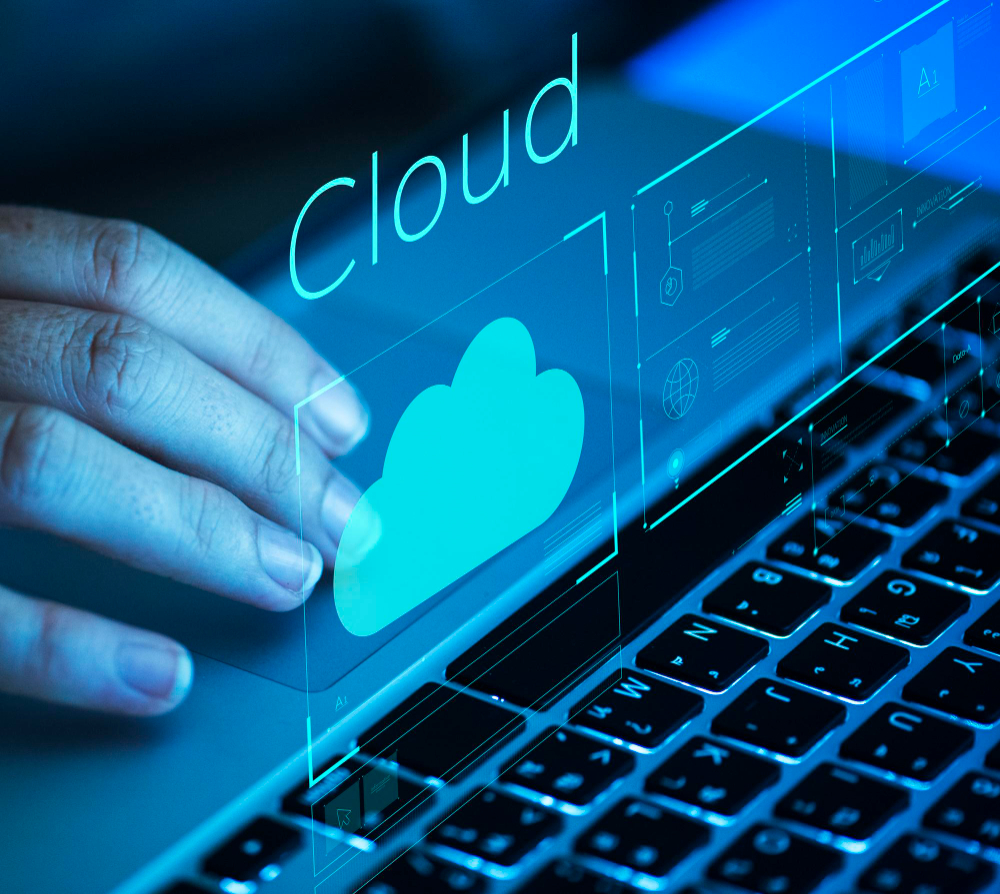
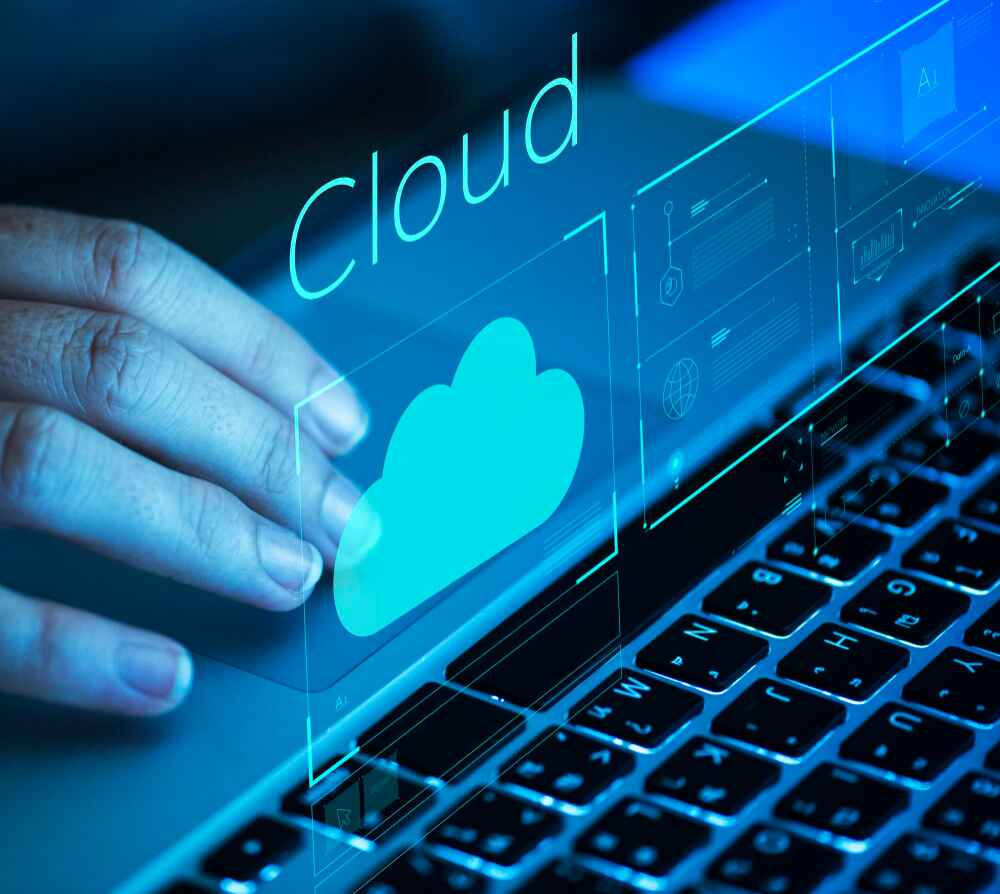
optimize images and add comments

diff --git a/src/components/Header/Header.jsx b/src/components/Header/Header.jsx
@@ -43,11 +43,11 @@ const Header = () => {
 
   return (
     <div className="fixed top-0 left-0 w-full shadow-sm z-50">
-      <nav className="bg-white max-w-[1920px] h-12 sm:h-16 px-4 md:px-6 lg:px-12 xl:px-24 flex justify-between mx-auto items-center">
+      <nav className="bg-white max-w-[1920px] h-16 px-4 md:px-6 lg:px-12 xl:px-24 flex justify-between mx-auto items-center">
         {/* Logo or Brand Name - Visible on all screens */}
         <div className="flex-shrink-0">
           <Link to="/">
-            <img className="h-10 xl:h-12 py-2" src={Logo} alt="Packways_Logo" />
+            <img className="h-12 py-2" src={Logo} alt="Packways_Logo" />
           </Link>
         </div>
 
@@ -108,8 +108,8 @@ const Header = () => {
                 <DialogDescription className="sr-only">
                   Browse menu items
                 </DialogDescription>
-                <Link to="/" className="">
-                  <img className="h-7" src={Logo} alt="Iron Data Logo" />
+                <Link to="/">
+                  <img className="h-6 sm:h-7" src={Logo} alt="Iron Data Logo" />
                 </Link>
               </SheetHeader>
 

diff --git a/src/components/Home/WhyMarkOne.jsx b/src/components/Home/WhyMarkOne.jsx
@@ -1,10 +1,7 @@
 import { whyMarkOne } from "@/constants";
 import {
   Card,
-  CardAction,
-  CardContent,
   CardDescription,
-  CardFooter,
   CardHeader,
   CardTitle,
 } from "@/components/ui/card";
@@ -12,9 +9,7 @@ import {
 const WhyMarkOne = () => {
   return (
     <section className="bg-white max-w-[1920px] flex flex-col relative justify-center mx-auto px-4 md:px-6 lg:px-12 xl:px-24 py-20 border-red-500 overflow-hidden">
-      {/* Background - box effect */}
-      {/* <BgBoxEffect /> */}
-
+      {/* Title */}
       <h2 className="text-2xl lg:text-3xl xl:text-4xl font-bold text-gray-900 leading-snug mb-3">
         Why Mark One
       </h2>
@@ -22,6 +17,7 @@ const WhyMarkOne = () => {
         Four pillars that define how we build and scale with our partners.
       </p>
 
+      {/* Whu mark one cards */}
       <div className="w-full grid gap-7 grid-cols-1 md:grid-cols-4 my-6">
         {whyMarkOne.map(({ id, img, title, desc }) => (
           <div key={title} className="">

diff --git a/src/components/Home/TechnologyServices.jsx b/src/components/Home/TechnologyServices.jsx
@@ -14,10 +14,12 @@ import {
 const TechnologyServices = () => {
   return (
     <section className="bg-white max-w-[1920px] mx-auto px-4 md:px-6 lg:px-12 xl:px-24 py-20">
+      {/* Title */}
       <h2 className="text-2xl lg:text-3xl xl:text-4xl font-bold text-gray-900 leading-snug mb-5">
         Technology Services
       </h2>
       <div className="flex flex-col items-center">
+        {/* Services cards */}
         <div className="w-full grid gap-7 grid-cols-1 md:grid-cols-4 mb-6">
           {techServices.items.map(({ id, title, desc, Icon }) => (
             <Card key={id}>
@@ -29,6 +31,8 @@ const TechnologyServices = () => {
             </Card>
           ))}
         </div>
+
+        {/* CTA Buttons */}
         <Link to={techServices.cta.href}>
           <Button
             type={techServices.cta.type}

diff --git a/src/components/Home/EcosystemPillars.jsx b/src/components/Home/EcosystemPillars.jsx
@@ -3,8 +3,6 @@ import { Button } from "..";
 import { pillars } from "@/constants";
 import {
   Card,
-  CardAction,
-  CardContent,
   CardDescription,
   CardFooter,
   CardHeader,
@@ -14,10 +12,12 @@ import {
 const EcosystemPillars = () => {
   return (
     <section className="bg-white max-w-[1920px] mx-auto px-4 md:px-6 lg:px-12 xl:px-24 py-20">
+      {/* Title */}
       <h2 className="text-2xl lg:text-3xl xl:text-4xl font-bold text-gray-900 leading-snug mb-5">
         Ecosystem Pillars
       </h2>
       <div className="flex flex-col md:flex-row md:justify-between items-center md:gap-10 lg:gap-20 overflow-hidden">
+        {/* Pillars points */}
         <div className="w-full grid gap-7 grid-cols-1 md:grid-cols-3">
           {pillars.map(({ id, title, desc, Icon, cta }) => (
             <Card key={id}>

diff --git a/src/components/Home/DisruptionHighlight.jsx b/src/components/Home/DisruptionHighlight.jsx
@@ -15,6 +15,7 @@ const DisruptionHighlight = () => {
         rightToColor="to-red-500"
       />
 
+      {/* Title */}
       <h2 className="text-2xl lg:text-3xl xl:text-4xl font-bold text-white text-center leading-snug mb-3 z-10">
         {title}
       </h2>
@@ -22,6 +23,7 @@ const DisruptionHighlight = () => {
         {sub}
       </p>
 
+      {/* Bullet points */}
       <div className="max-w-2xl bg-accent text-sm md:text-base xl:text-lg text-gray-900 px-5 sm:px-8 py-3 sm:py-6 rounded-2xl mb-8 space-y-3 z-10">
         {bullets.map((bullet) => (
           <div className="flex gap-3 justify-center font-medium">
@@ -31,6 +33,7 @@ const DisruptionHighlight = () => {
         ))}
       </div>
 
+      {/* CTA button */}
       <div className="z-10">
         <Link to="/contact">
           <Button

diff --git a/src/components/Footer/Footer.jsx b/src/components/Footer/Footer.jsx
@@ -1,6 +1,7 @@
 import { Link } from "react-router-dom";
 import { Button } from "..";
 import { socialMediaLinks } from "@/constants";
+import Logo from "@/assets/logo/Mark_one_logo.png";
 
 const Footer = () => {
   return (
@@ -8,7 +9,7 @@ const Footer = () => {
       <div className="grid sm:grid-cols-3 md:grid-cols-5 lg:grid-cols-5 gap-12">
         {/* Company Info */}
         <div className="sm:col-span-3 md:col-span-2">
-          <h2 className="text-gray-900 text-xl font-bold">Mark One</h2>
+          <img src={Logo} alt="Mark One" className="h-10" />
           <p className="text-gray-700 font-medium mt-4 text-sm leading-relaxed max-w-sm">
             Learn more about how Mark One can help your company streamline
             customer communications, deliver 24×7 support, and optimize

diff --git a/src/components/Home/Hero.jsx b/src/components/Home/Hero.jsx
@@ -7,7 +7,7 @@ const Hero = () => {
   const { title, subline, tagline, ctas } = hero;
 
   return (
-    <section className="h-[calc(100vh-64px)] max-w-[1920px] mt-12 sm:mt-16 mx-auto px-4 md:px-6 lg:px-12 xl:px-24 py-10 flex flex-col md:flex-row justify-center md:justify-between items-center md:gap-10 lg:gap-20 overflow-hidden">
+    <section className="h-[calc(100vh-64px)] max-w-[1920px] mt-16 mx-auto px-4 md:px-6 lg:px-12 xl:px-24 py-10 flex flex-col md:flex-row justify-center md:justify-between items-center md:gap-10 lg:gap-20 overflow-hidden">
       {/* Hero Content */}
       <div className="md:w-1/2">
         <h1 className="text-3xl lg:text-4xl xl:text-5xl font-bold text-gray-900 leading-tight">

diff --git a/src/components/Home/WorkspaceSolutions.jsx b/src/components/Home/WorkspaceSolutions.jsx
@@ -12,6 +12,7 @@ const WorkspaceSolutions = () => {
         rightToColor="to-gray-500"
       />
 
+      {/* Title */}
       <h2 className="max-w-4xl text-2xl lg:text-3xl xl:text-4xl font-bold text-gray-900 text-center leading-snug mb-3 z-10">
         From desk to data centre—we host it all.
       </h2>
@@ -19,6 +20,8 @@ const WorkspaceSolutions = () => {
         Incubation hubs, remote-first infrastructure, and enterprise-grade
         facilities connected to our cloud.
       </p>
+
+      {/* CTA Buttons */}
       <div className="z-10">
         <Link to="/contact">
           <Button

diff --git a/src/components/Home/ManpowerTech.jsx b/src/components/Home/ManpowerTech.jsx
@@ -8,6 +8,7 @@ const ManpowerTech = () => {
       <div className="mx-auto flex flex-col md:flex-row items-center md:items-start gap-10">
         {/* Left Content */}
         <div className="md:w-4/7 my-auto">
+          {/* Title */}
           <h2 className="text-2xl lg:text-3xl xl:text-4xl font-bold text-gray-900 leading-snug mb-3">
             Manpower & Tech Outsourcing
           </h2>

diff --git a/src/components/Home/About.jsx b/src/components/Home/About.jsx
@@ -8,6 +8,7 @@ const About = () => {
       <div className="mx-auto flex flex-col md:flex-row items-center md:items-start gap-10">
         {/* Left Content */}
         <div className="md:w-4/7 my-auto">
+          {/* Title */}
           <h2 className="text-2xl lg:text-3xl xl:text-4xl font-bold text-gray-900 leading-snug mb-3">
             About Mark One
           </h2>

diff --git a/src/components/Home/FinalCTA.jsx b/src/components/Home/FinalCTA.jsx
@@ -12,6 +12,7 @@ const FinalCTA = () => {
         rightToColor="to-red-500"
       />
 
+      {/* Tilte */}
       <h2 className="max-w-3xl text-2xl lg:text-3xl xl:text-4xl font-bold text-white text-center leading-snug mb-3 z-10">
         Your idea deserves capital, cloud, and confidence. We bring all three.
       </h2>

diff --git a/src/components/About/OurStory.jsx b/src/components/About/OurStory.jsx
@@ -2,7 +2,7 @@ import Img from "@/assets/about.png";
 
 const OurStory = () => {
   return (
-    <section className="pb-16 pt-5">
+    <section className="pb-16 mt-16">
       <div className="mx-auto">
         <img src={Img} alt="About Mark One" className="rounded-2xl w-full" />
         {/* Heading */}
